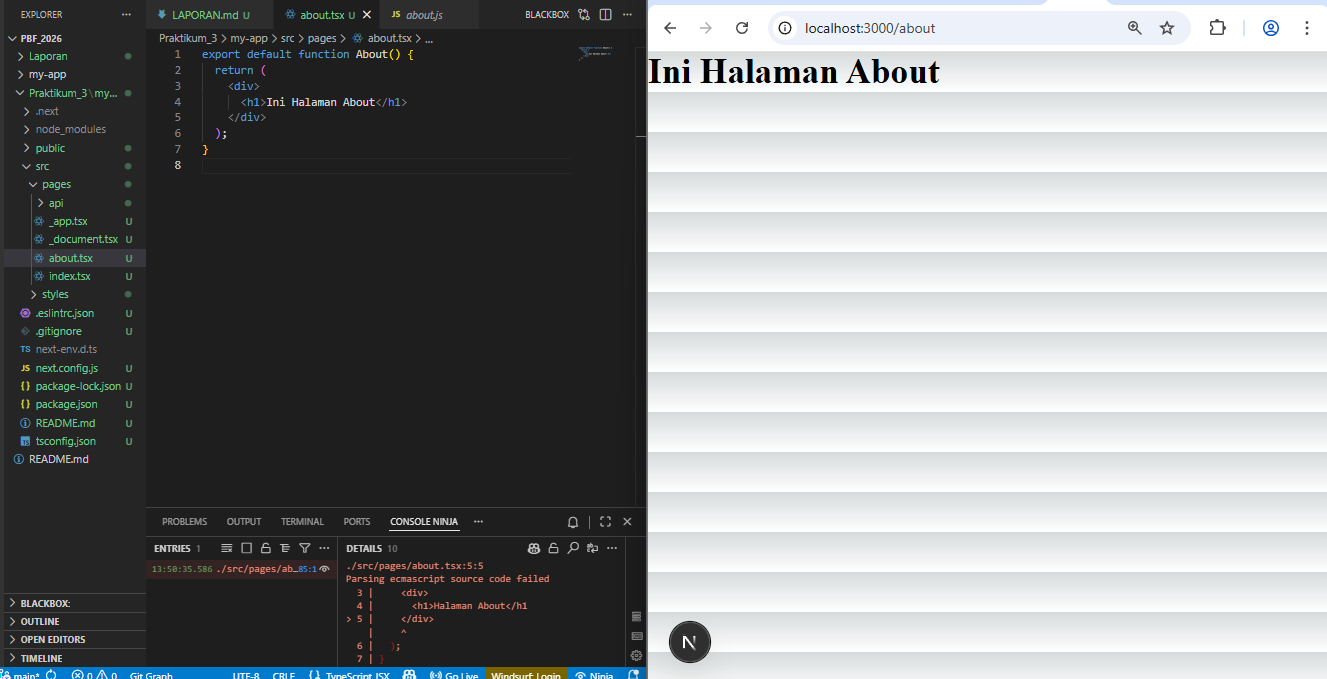
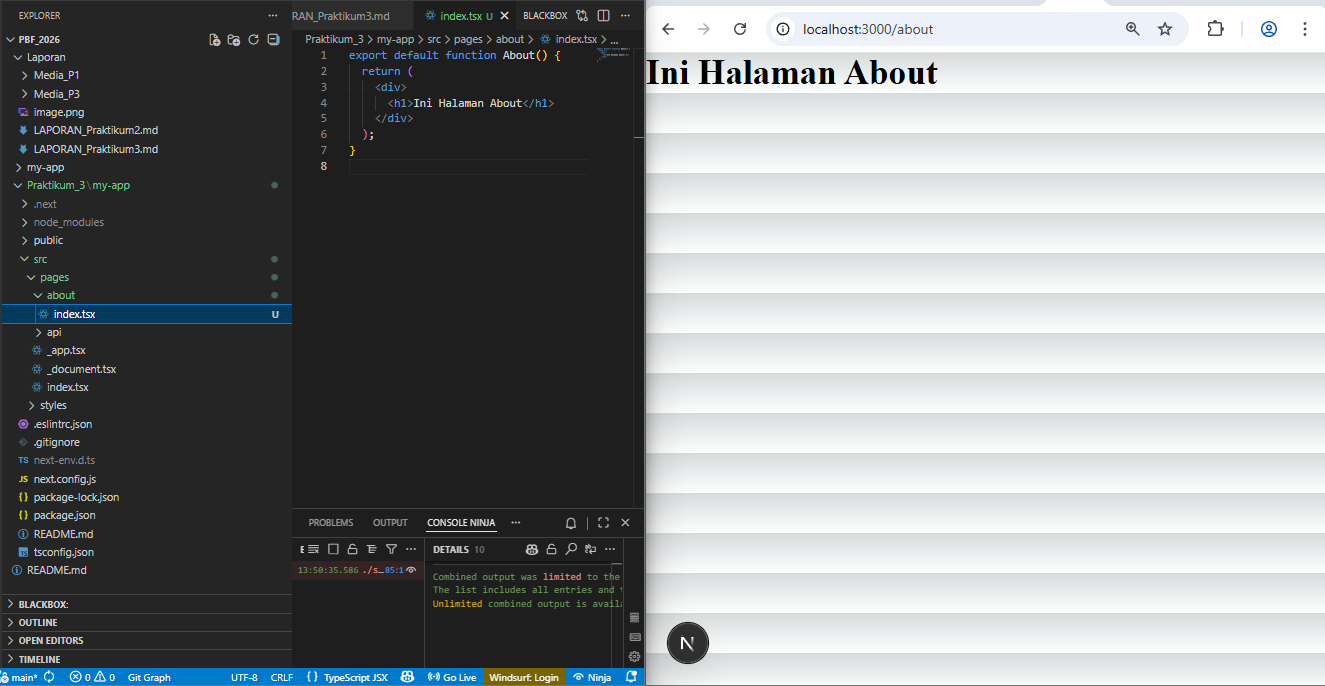
2. Routing Menggunakan Folder

diff --git a/Laporan/LAPORAN_Praktikum3.md b/Laporan/LAPORAN_Praktikum3.md
@@ -1,1 +1,4 @@
-![ Routing Dasar (Static Routing) ](image.png)
+![1. Routing Dasar (Static Routing) ](image.png)
+![2. Routing Menggunakan Folder](image.png)
+Hasil dari halaman browser tetap sama tetapi lebih rapi
+ 
